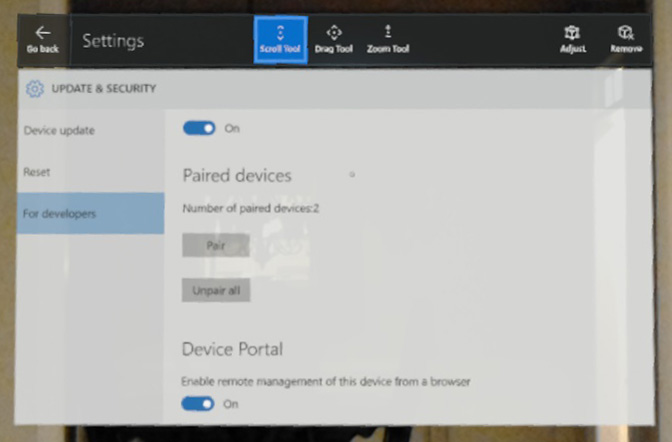
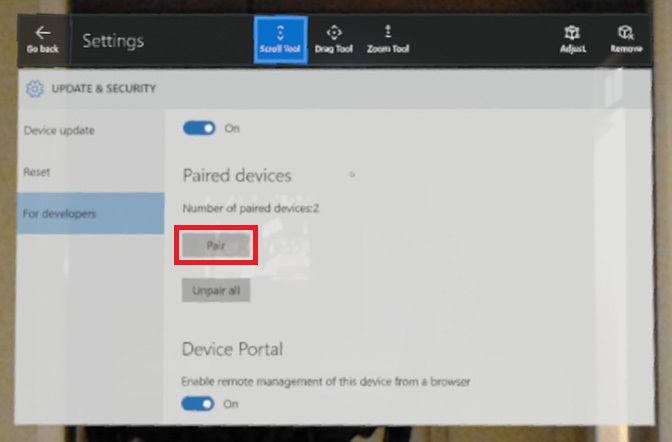
Edited Exercise 5 of HoloLens lab

Changed region(s): [[0.25, 0.5, 0.4062, 0.6176]]

diff --git a/Mixed Reality/HoloLens (Draft)/Session 2 - Hands On/HoloLens HOL.md b/Mixed Reality/HoloLens (Draft)/Session 2 - Hands On/HoloLens HOL.md
@@ -96,7 +96,7 @@ In this exercise, you will prepare your development environment so you can build
 
 1. Download and install the latest release of Unity from https://unity3d.com/unity. The free Personal Edition will work just fine while you are learning.
 
-    > If you've worked with Unity and HoloLens previously, you may recall needing to download a special build. HoloLens support is now fully integrated into Unity, so you no longer need to do that. The "normal" release version is sufficient now.
+    > If you have worked with Unity and HoloLens previously, you may recall needing to download a special build. HoloLens support is now fully integrated into Unity, so you no longer need to do that. The "normal" release version is sufficient now.
 
 1. You must have a Unity account to sign in to Unity. Go to https://id.unity.com/en/conversations/41750435-f67a-4881-a6e5-5dec3c05f731019f and create an account if you do not already have one.
 
@@ -121,7 +121,7 @@ In this exercise, you will configure your HoloLens and pair it with your PC. It 
 
     _Enabling developer mode and remote management_
 
-1. Now that the Web portal is enabled, you will need to create a login for your device. Connect the HoloLens to your Windows PC using a USB cable. Then browse to http://127.0.0.1:10080 on your PC.
+1. Next, you need to create a login for your device. Connect the HoloLens to your Windows PC using a USB cable. Then browse to http://127.0.0.1:10080 on your PC.
 
 1. When presented with a setup page that asks you to request a pin, click the **Request pin** button.
 
@@ -154,9 +154,9 @@ With the HoloLens hardware configured, you are now ready to start building an ap
 <a name="Exercise3"></a>
 ## Exercise 3: Build your first holographic application with Unity ##
 
-In this exercise, you will create a new Unity project and configure it (manually) to target the Windows Holographic platform. In the next exercise, you will learn how to automate much of this. However, going through the process manually the first time helps you understand — and develop an appreciation for — what's happening and why.
+In this exercise, you will create a new Unity project and configure it to target the Windows Holographic platform. In the next exercise, you will learn how to automate much of this process. However, doing it manually the first time helps you understand what's happening and why.
 
-1. Launch Unity and sign in using your Unity Account.
+1. Launch Unity and sign in with your Unity Account.
 
 1. Click **+ New** to create a new Unity project. For now, the project name does not matter since this is a throw-away project. Enter any project name that you like. Make sure **3D** is selected, and then click the **Create project** button.
 
@@ -172,7 +172,7 @@ In this exercise, you will create a new Unity project and configure it (manually
 
     _Creating a new camera_
 
-1. The camera must be configured correctly for the holographic application to function properly. Go to the "Inspector" tab docked to the right side of the Unity user interface. In the **Tag** drop-down, select **MainCamera**.
+1. The camera must be configured correctly for the holographic application to function properly. Go to the Inspector tab docked to the right side of the Unity IDE. In the **Tag** drop-down, select **MainCamera**.
 
     ![Selecting MainCamera](Images/maincamera.jpg)
 
@@ -184,13 +184,13 @@ In this exercise, you will create a new Unity project and configure it (manually
 
     _Configuring the Clear Flags_
 
-1. Change **Background** to solid black using the "Color" popup.
+1. Change **Background** to solid black using the Color popup.
 
     ![Setting the camera background](Images/black_bg.jpg)
 
     _Setting the camera background_
 
-1. Click the Gear icon in the upper-right corner of the panel, and select **Reset** from the context menu to reset the camera position 0, 0, 0.
+1. Click the gear icon in the upper-right corner of the panel, and select **Reset** from the context menu to reset the camera position 0, 0, 0.
 
     > It is a good habit to **always** reset the position of any new elements added to your scene so that each has a known starting position.
 
@@ -228,25 +228,25 @@ In this exercise, you will create a new Unity project and configure it (manually
 
     _Changing platform settings_
 
-1. Click the **Player Settings...** button under the list of platforms. This will open a new region within the "Inspector" panel. Click **Publishing Settings** in the "Inspector" panel to display the project's publishing settings.
+1. Click the **Player Settings...** button under the list of platforms. This will open a new region within the Inspector panel. Click **Publishing Settings** in the Inspector panel to display the project's publishing settings.
 
     ![Viewing publishing settings](Images/publisher.jpg)
 
     _Viewing publishing settings_
 
-1. Scroll to the end of the "Publishing Settings" pane, where you will find a "Capabilities" list. This is where you declare any capabilities that your application requires, which might require additional permissions. **SpatialPerception** and **Microphone** are common requirements, so check those. Also check **InternetClient** so you can run the app in the HoloLens emulator.
+1. Scroll to the end of the Publishing Settings pane, where you will find a Capabilities list. This is where you declare any capabilities that your application requires. **SpatialPerception** and **Microphone** are common requirements, so check those. Also check **InternetClient** so you can run the app in the HoloLens emulator.
 
     ![Specifying the app's capabilities](Images/capabilities.jpg)
 
     _Specifying the app's capabilities_
 
-1. Find the "Other Settings" pane in the "Inspector" panel and expand it. Then check the **Virtual Reality Supported** box. Upon selecting this option, a list of Virtual Reality SDKs should appear below. Verify that **Windows Holographic** appears in that list (it will likely be the only entry in the list).
+1. Find the Other Settings pane in the Inspector panel and expand it. Then check the **Virtual Reality Supported** box. Upon selecting this option, a list of Virtual Reality SDKs should appear below. Verify that **Windows Holographic** appears in that list (it will likely be the only entry in the list).
 
     ![Specifying other settings](Images/other.jpg)
 
     _Specifying other settings_
 
-1. From the **Edit** menu, select **Project Settings** and then **Quality**. This will open a new region named "QualitySettings" within the "Inspector" panel.
+1. From the **Edit** menu, select **Project Settings** and then **Quality**. This will open a new region named "QualitySettings" within the Inspector panel.
 
     ![Accessing quality settings](Images/quality.jpg)
 
@@ -267,11 +267,11 @@ Congratulations! You've created and built a Unity project that supports the Wind
 
 In this exercise, you will create a new project and use HoloToolkit to streamline the project setup.
 
-1. Download or clone the HoloToolkit repository from GitHub to your local Windows PC. The repository can be found at https://github.com/Microsoft/HoloToolkit-Unity. This package is updated frequently, and you will likely want to use the latest and greatest.
+1. Download or clone the HoloToolkit repository from GitHub to your local Windows PC. The repository can be found at https://github.com/Microsoft/HoloToolkit-Unity. This package is updated frequently, and you want to use the latest and greatest.
 
 1. Open the downloaded HoloToolkit project folder in Unity.
 
-1. In the "Project" pane, select the "Assets" folder in the root. Right-click the folder and select **Export Package...**. Be sure to export the entire "Assets" folder, including dependencies.
+1. In the Project pane, select the "Assets" folder at the root of the project. Right-click the folder and select **Export Package...**. Be sure to export the entire "Assets" folder, including dependencies.
 
     ![Exporting assets as a package](Images/export.jpg)
 
@@ -297,7 +297,7 @@ In this exercise, you will create a new project and use HoloToolkit to streamlin
 
     _Deleting the default main camera_
 
-1. In the "Project" panel, expand the "Assets" folder to expose the subfolder named "HoloToolkit." Expand again to find the "Input" and "Prefabs" folders. Then drag **HoloLensCamera.prefab** and drop it over the main scene node in the "Hierarchy" treeview. This camera is preconfigured to function properly in a HoloLens application. Remember to **reset the camera after placing it**. (See Exercise 3, Step 7 to remind yourself how to do it.)
+1. In the Project panel, expand the "Assets" folder to expose the subfolder named "HoloToolkit." Expand again to find the "Input" and "Prefabs" folders. Then drag **HoloLensCamera.prefab** and drop it over the main scene node in the Hierarchy treeview. This camera is preconfigured to function properly in a HoloLens application. Remember to **reset the camera after placing it**. (See Exercise 3, Step 7 to remind yourself how to do it.)
 
     ![Adding Prefab main camera](Images/camera_prefab.jpg)
 
@@ -329,53 +329,55 @@ You now know how to configure a holographic project manually, and how to expedit
 <a name="Exercise5"></a>
 ## Exercise 5: Compile and Debug in Visual Studio ##
 
-In the previous two exercises, you learned through two different to configure a new holographic project in Unity. In this exercise, you will learn how to compile and run the apps that you create.
+In the previous two exercises, you learned two different ways to configure a new holographic project in Unity. In this exercise, you will learn how to use Visual Studio to compile the apps that you create and run them on your HoloLens.
 
-1. In Unity, open either project that was created during the previous two exercises.
+1. In Unity, open either of the projects you created in the previous exercises.
 
-    > **NOTE:** If you are using HoloToolkit for the open project, then you can use HoloTookit's Build Window in place of steps 2 through 4 here.
+    > If you opened the HoloToolkit project, then you can use HoloTookit's **Build Window** command in place of Steps 2 through 4.
 
 1. Select **Build Settings...** from the **File** menu.
 
-    ![Build Settings](Images/build_settings.jpg)
+    ![Opening build settings](Images/build_settings.jpg)
 
-    _Build Settings_
+    _Opening build settings_
 
-1. Click the **Build** button. You will be prompted for an output folder location for Unity to place the resulting Visual Studio solution code. You should create a folder under your project for this (***"[Project Dir]\WindowsStoreApp\\"*** is usually a good location choice).
+1. Click the **Build** button. You will be prompted to select the output folder in which Unity will place a Visual Studio solution. You should create a folder under your project for this.
 
-    > **NOTE:** After Unity packages resources and exports the code files, you will find two Visual Studio solution files - one in the main project folder and one in the chosen output folder. Ignore the ****.sln*** file that can be found in the main project folder.
+    > Unity generates two Visual Studio solution files: one in the main project folder and one in the output folder. Ignore the **.sln** file in the main project folder.
 
-1. Launch Visual Studio and open the ****.sln*** file that was written to your chosen output folder from the previous step. This solution file will contain three projects - you can generally ignore the one named  ***Assembly-CSharp-firstpass***. The project named ***Assembly-CSharp*** contains your script behaviors that are attached to elements throughout your Unity project, and the third one is the main application project for the App itself.
+1. Start Visual Studio and open the **.sln** file created in the output folder in the previous step.
 
-1. Verify that your main application project (will have the same name as your Unity project) is set as the **Startup Project** in Visual Studio.
+	> This solution contain three projects. You can generally ignore the one named "Assembly-CSharp-firstpass." The project named "Assembly-CSharp" contains the script behaviors that are attached to elements in the Unity project, and the third one is the project for the app itself.
 
-1. Verify that your Visual Studio Build Configuration is set for **Debug** target, for the **x86** platform, and **Device** as the target device.
+1. Verify that your main application project — the one with the same name as your Unity project — is set as the startup project in Visual Studio. If it isn't, right-click the project and select **Set as Startup Project** from the context menu.
 
-    ![Visual Studio Build Configuration](Images/build_config.jpg)
+1. Verify that Visual Studio is set to produce a **Debug** build for the **x86** platform with **Device** as the target.
 
-    _Visual Studio Build Configuration_
+    ![Setting the Visual Studio build configuration](Images/build_config.jpg)
 
-    > **NOTE:** Select **Device** if your HoloLens is directly connected via USB. If you wish to deploy/debug over WiFi, then you will need to select **Remote Machine** and input the IP address of your HoloLens to use remote debugging.
+    _Setting the Visual Studio build configuration_
 
-1. Press **F5** or select **Start Debugging** from the **Debug** menu to compile, deploy and launch the empty application.
+    > Selecting **Device** assumes that your HoloLens is connected via USB. If you wish to deploy and debug over WiFi, select **Remote Machine** instead and input the IP address of your HoloLens.
 
-    If this is the first time deploying from your PC to this HoloLens, you will be prompted for a **PIN code**. You can obtain this PIN code from the HoloLens device, from the Developer Settings page where Developer Mode was enabled in Exercise 2 above. Click the **Pair** button here to generate a PIN code that can be entered into Visual Studio's prompt.
+1. Press **F5** or select **Start Debugging** from the **Debug** menu to compile, deploy, and launch the application.
 
-    ![Visual Studio Pairing](Images/pairing_vs.jpg)
+    If this is the first time deploying to this HoloLens, Visual Studio will prompt you for a PIN code. You can obtain this PIN from the HoloLens device, from the settings page where you enabled Developer Mode in [Exercise 2](#Exercise2). Click the **Pair** button to generate a PIN code for Visual Studio.
 
-    _Visual Studio Pairing_
+    ![Pairing with Visual Studio](Images/pairing_vs.jpg)
 
-    If everything goes well, Visual Studio will compile and deploy the application and then launch it. Because this application has no content yet, the only indication you will get from the HoloLens will be the Unity splash logo that always appears when using the free edition of the platform.
+    _Pairing with Visual Studio_
 
-    > **TIP:** If you encounter build errors, first ensure that you have automatic NuGet package restore enabled in Visual Studio. You can also try **Clean All** first from the Visual Studio **Build** menu, and then **Build** the ***Assembly-CSharp-firstpass*** project by itself, followed by the ***Assembly-CSharp*** project, and then finally the main application project (sometimes, the build dependencies fail to resolve properly and manually rebuilding this way will fix it).
+1. If everything goes well, Visual Studio will compile and deploy the application and then launch it. Because this application has no content yet, the only indication you will get from the HoloLens will be the Unity splash logo that appears because you are using the free edition of Unity.
 
-    > **TIP:** If your build is successful, but you don't see anything in the HoloLens or the Emulator, then double-check the project and scene configuration steps outlined in [Exercise 3](#Exercise3) above. This is often due to a missing setting (such as not enabling the Holographic SDK support).
+    ![The app running on a HoloLens](Images/unity_logo.jpg)
 
-    ![Unity Splash Logo](Images/unity_logo.jpg)
+    _The app running on a HoloLens_
 
-    _Unity Splash Logo_
+	If you encounter build errors, first ensure that automatic NuGet package restore is enabled in Visual Studio (see Exercise 1, Step 2). You can also try selecting **Clean All** from Visual Studio's **Build** menu, and then building the "Assembly-CSharp-firstpass" project by itself, followed by the "Assembly-CShar" project, and then the main application project. Sometimes, the build dependencies fail to resolve properly and manually rebuilding this way will resolve the problem.
 
-With a starter holographic project in place, we can finally move to the final exercise in this lab, where we build a simple (but complete) interaction between the user and a hologram.
+    If your build is successful but you don't see anything in the HoloLens or in the emulator, double-check the configuration steps in [Exercise 3](#Exercise3). Just one missing setting, such as failing to enable Holographic SDK support, can prevent the app from working.
+
+With a starter holographic project in place, you are now prepared to move on to the final exercise in this lab in which you will add an interactive hologram to the scene.
 
 <a name="Exercise6"></a>
 ## Exercise 6: Create an interactive hologram ##
